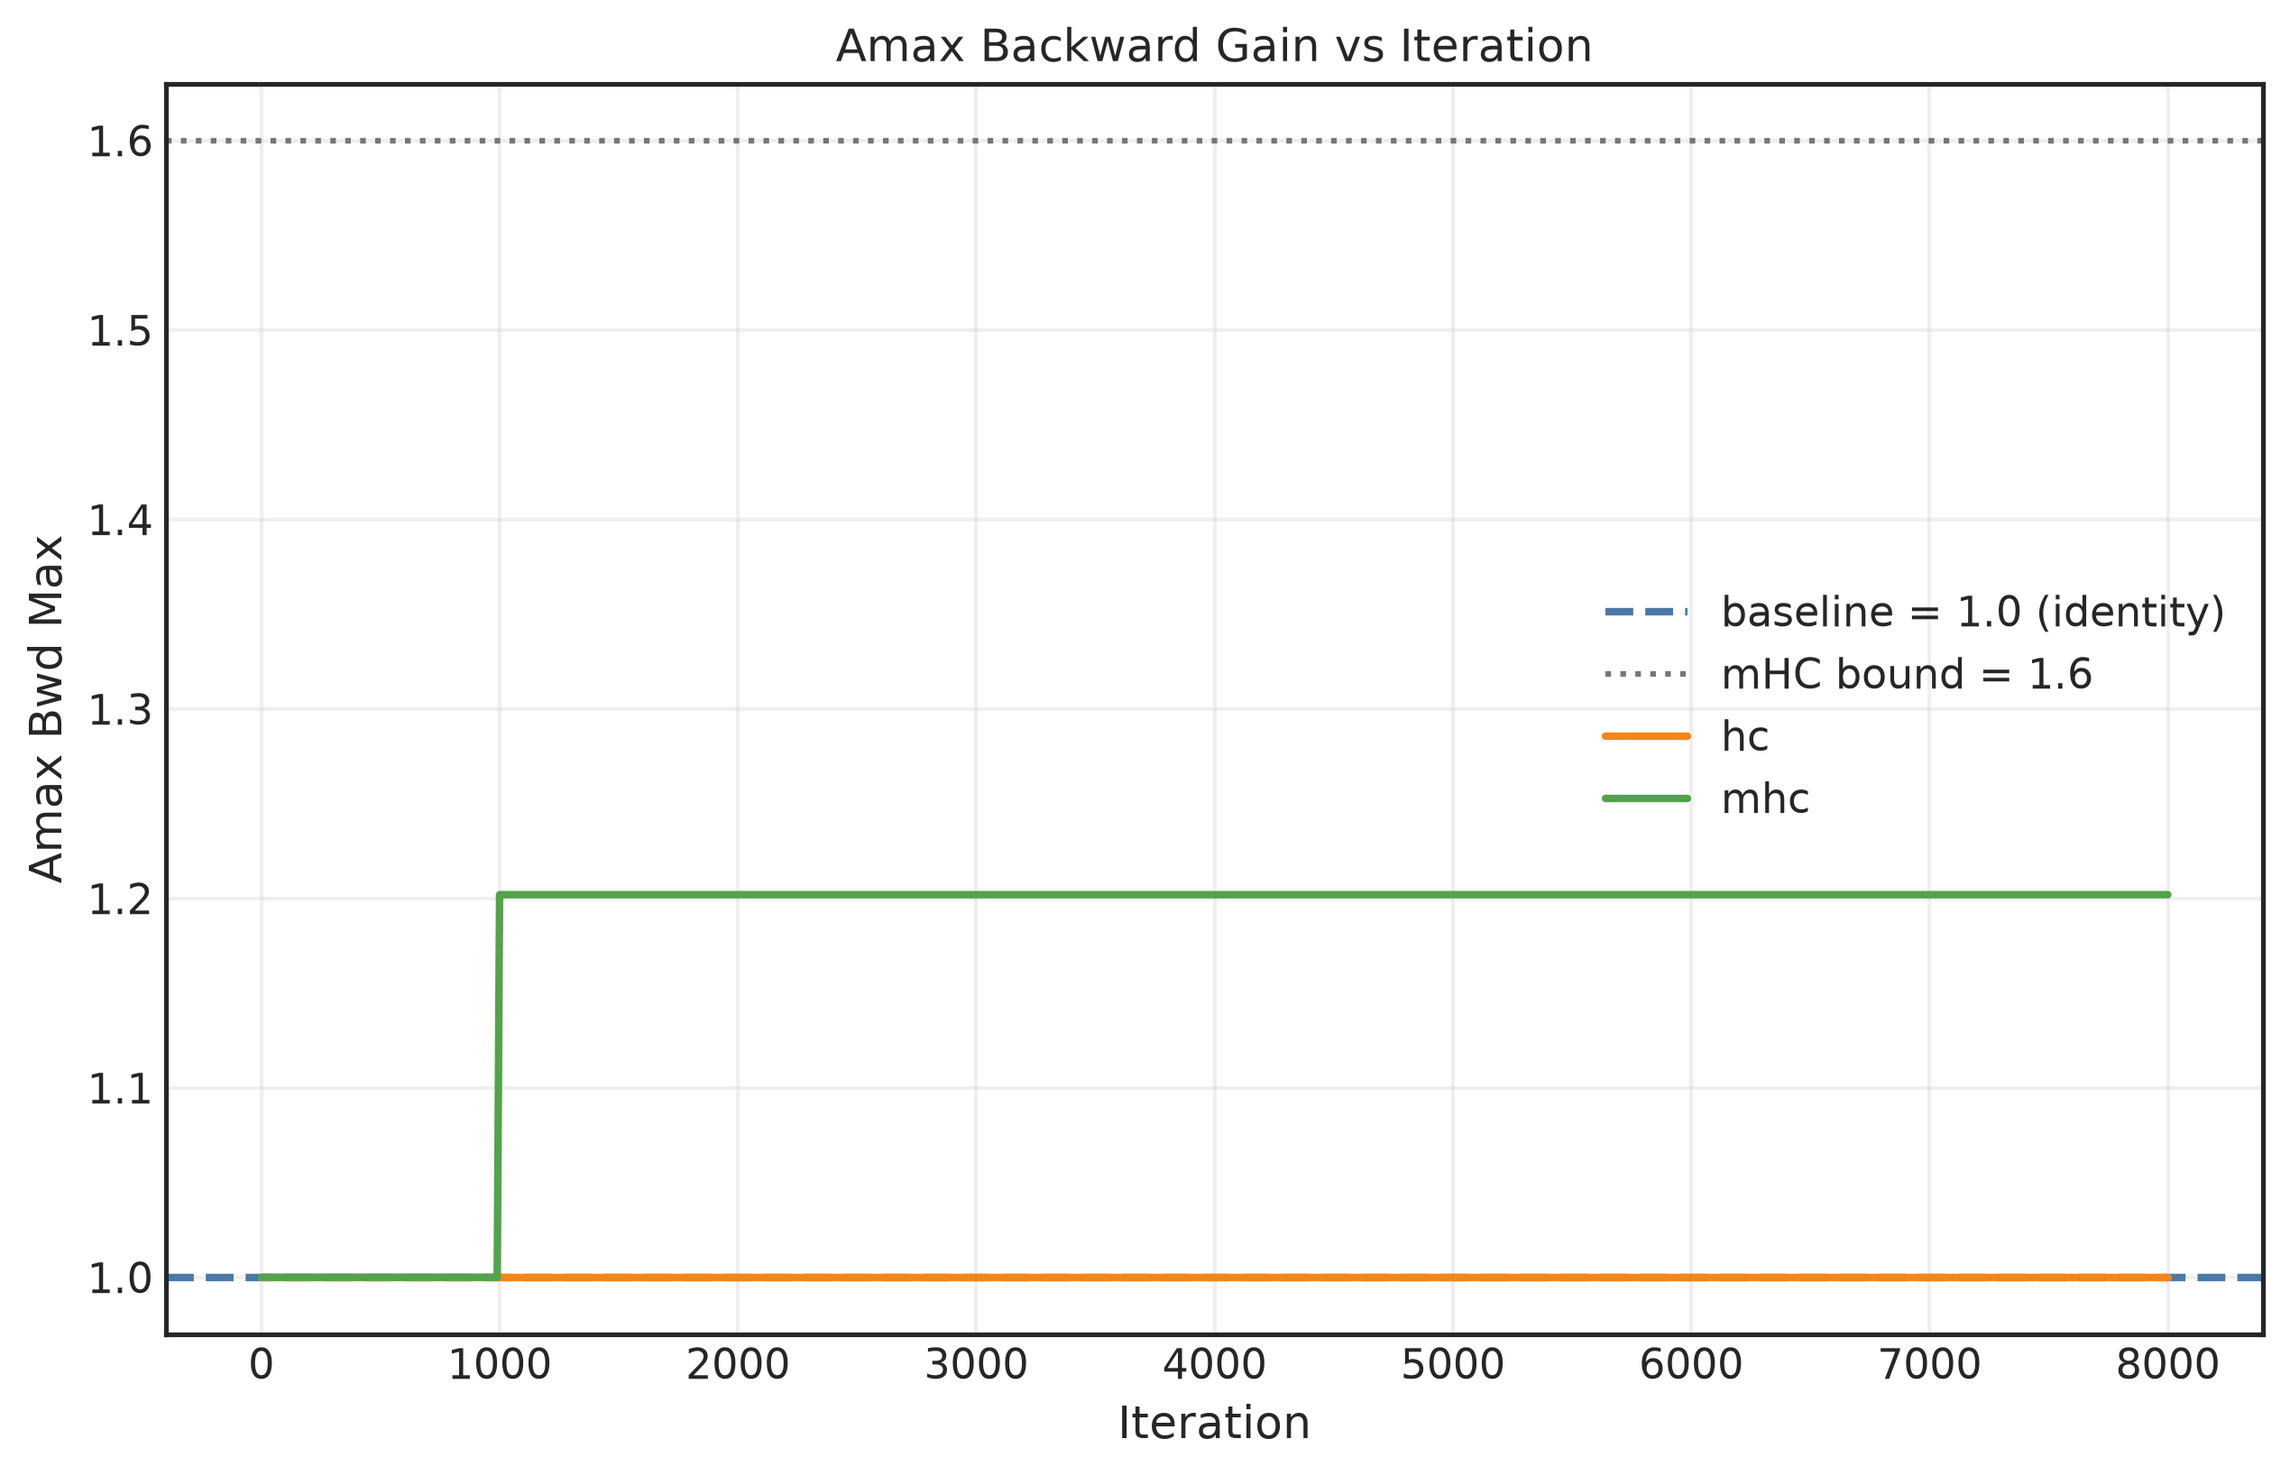
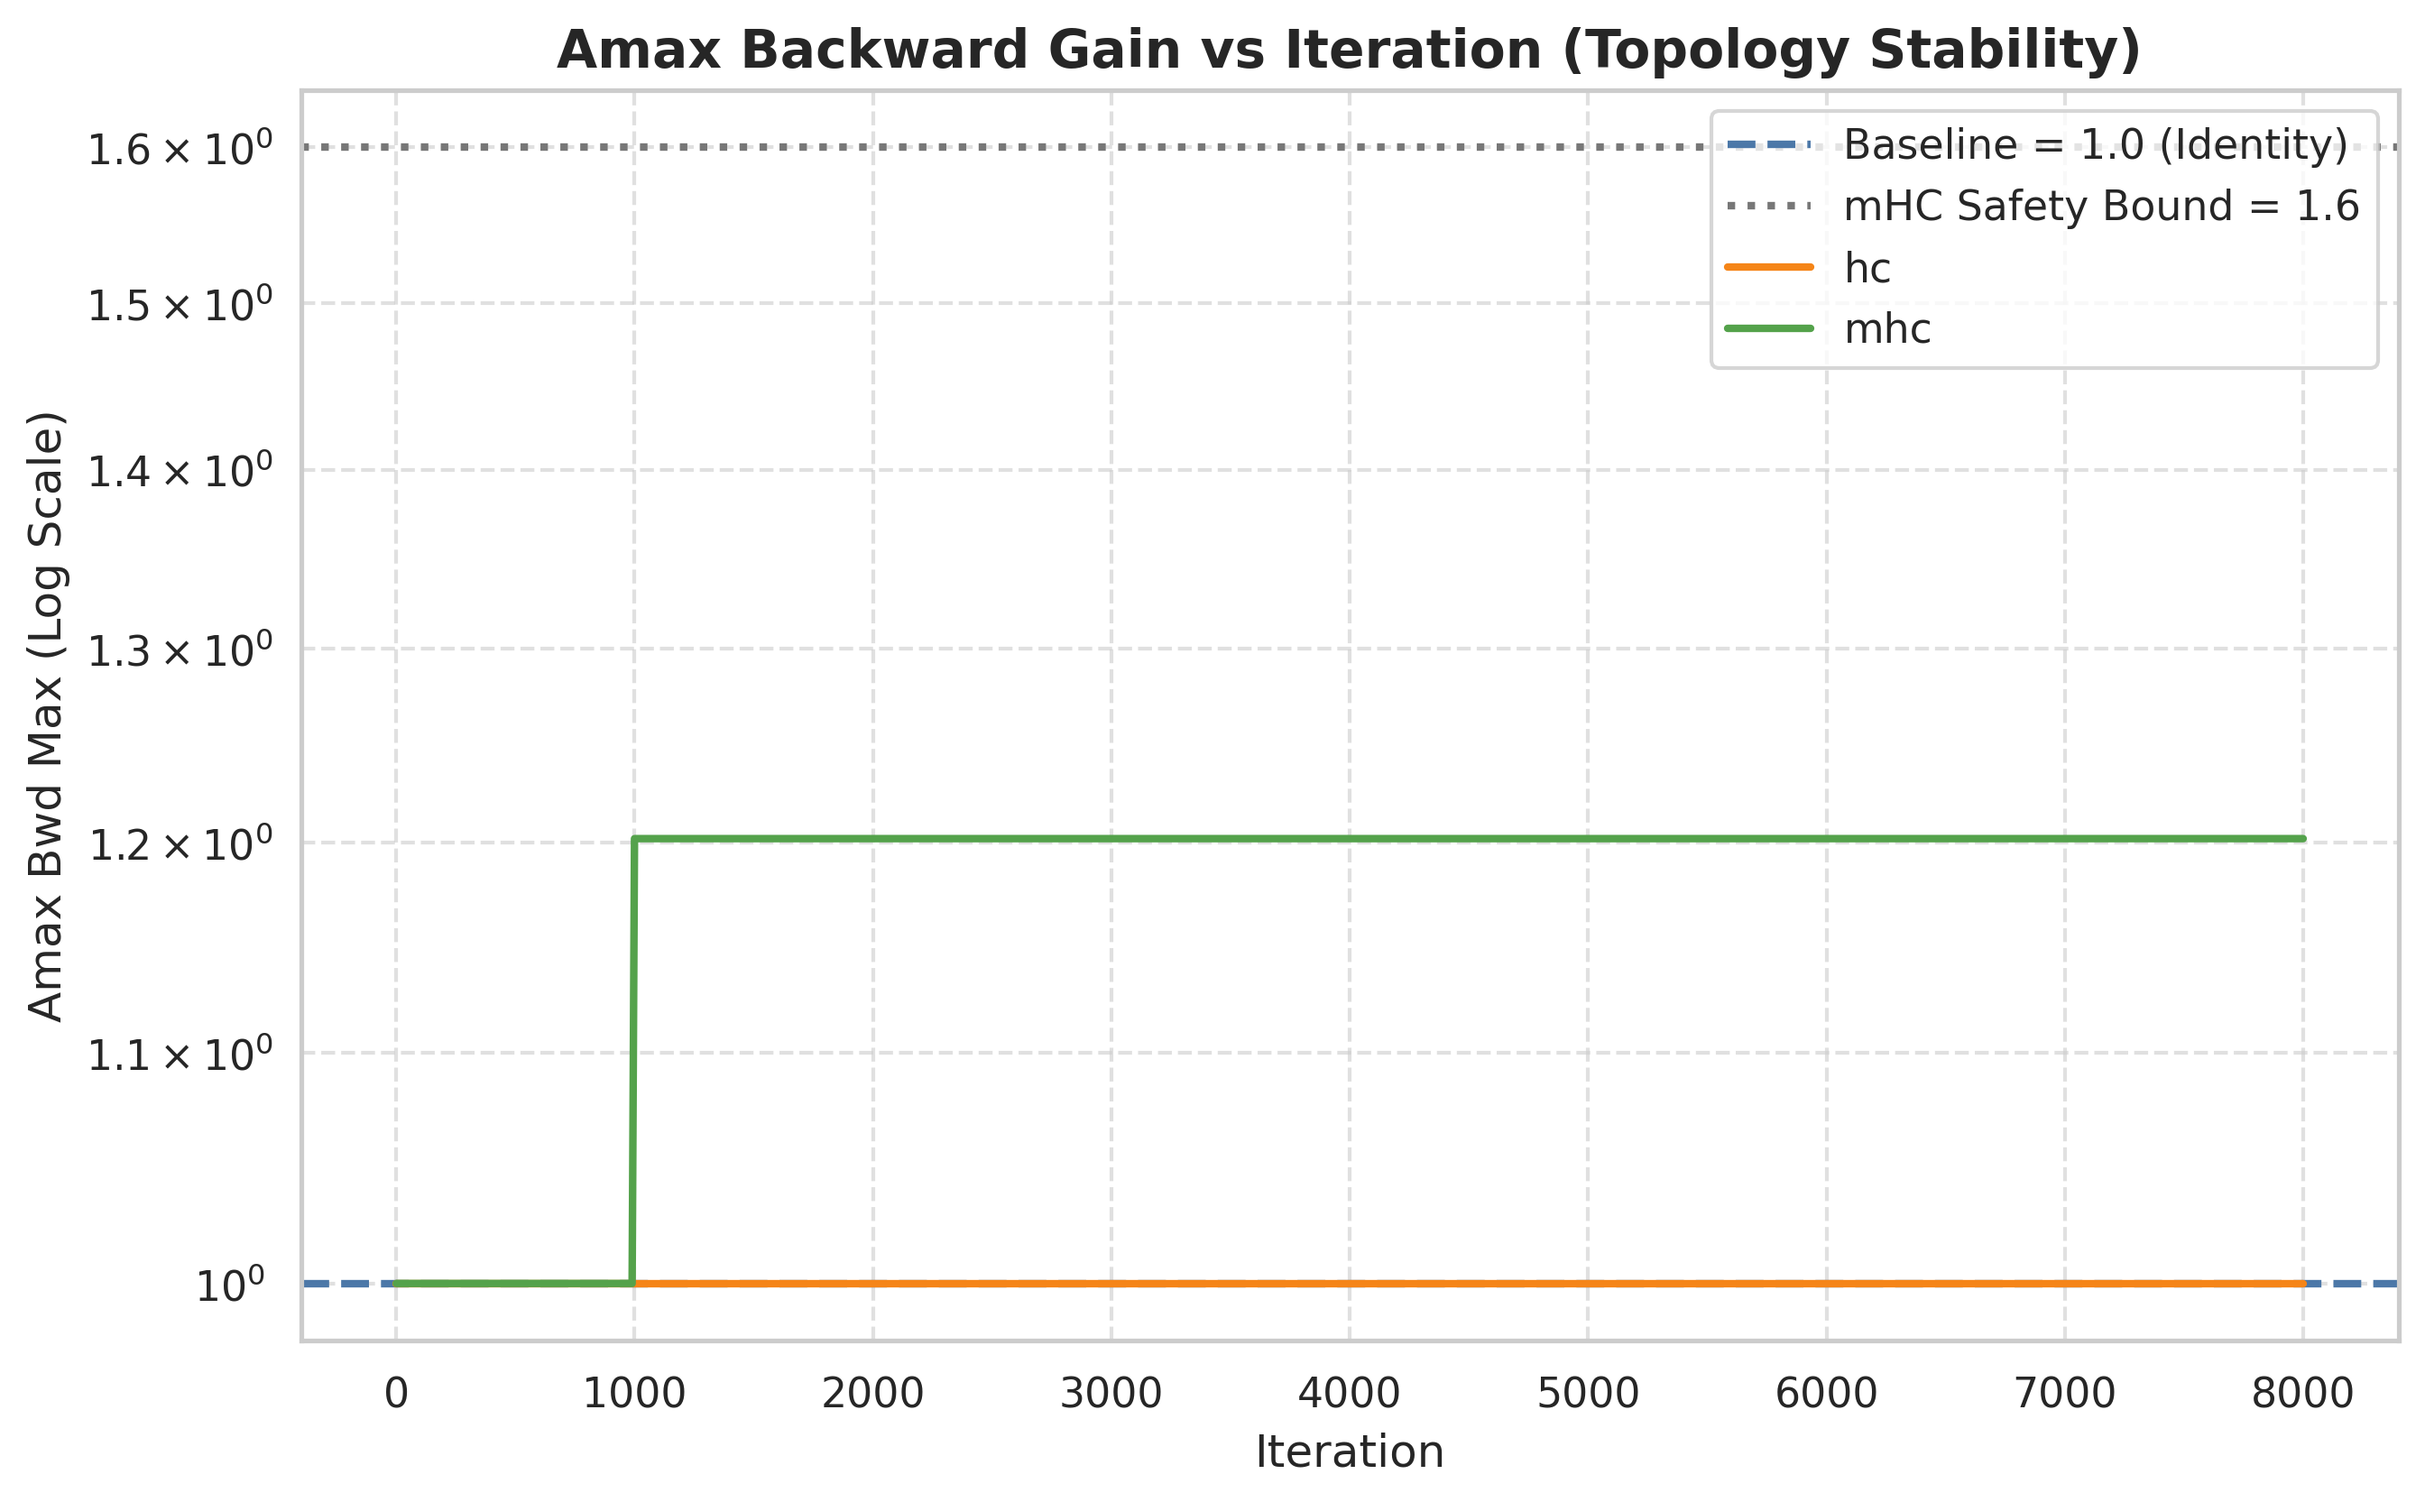
refactor: enhance visualization plots with log scaling, EMA smoothing, and improved styling for better clarity

diff --git a/examples/qwen2.5-0.5B/plot_qwen_comparison.py b/examples/qwen2.5-0.5B/plot_qwen_comparison.py
@@ -29,6 +29,7 @@ def _parse_runs(run_args: List[str]) -> Dict[str, Path]:
 
 
 def _ema(series: pd.Series, alpha: float) -> pd.Series:
+    """Calculate Exponential Moving Average for smoothing."""
     return series.ewm(alpha=alpha, adjust=False).mean()
 
 
@@ -56,12 +57,14 @@ def _plot_val_loss(runs: Dict[str, pd.DataFrame], output_dir: Path) -> Path:
             label=name,
             color=COLORS.get(name, None),
             linewidth=2,
+            marker='o', # Thêm marker để dễ nhìn các điểm eval
+            markersize=4
         )
-    ax.set_title("Validation Loss vs Iteration")
-    ax.set_xlabel("Iteration")
-    ax.set_ylabel("Validation Loss")
-    ax.grid(True, alpha=0.3)
-    ax.legend()
+    ax.set_title("Validation Loss vs Iteration", fontsize=14, fontweight='bold')
+    ax.set_xlabel("Iteration", fontsize=12)
+    ax.set_ylabel("Validation Loss", fontsize=12)
+    ax.grid(True, linestyle="--", alpha=0.6)
+    ax.legend(fontsize=11)
     path = output_dir / "val_loss_curve.png"
     _save_fig(fig, path)
     return path
@@ -72,19 +75,18 @@ def _plot_train_loss(runs: Dict[str, pd.DataFrame], output_dir: Path) -> Path:
     for name, df in runs.items():
         if "train_loss" not in df:
             continue
-        ema_series = _ema(df["train_loss"], alpha=0.95)
-        ax.plot(
-            df["iter"],
-            ema_series,
-            label=name,
-            color=COLORS.get(name, None),
-            linewidth=2,
-        )
-    ax.set_title("Training Loss vs Iteration (EMA)")
-    ax.set_xlabel("Iteration")
-    ax.set_ylabel("Training Loss")
-    ax.grid(True, alpha=0.3)
-    ax.legend()
+        # Đã SỬA: Dùng alpha=0.05 để làm mượt thực sự
+        ema_series = _ema(df["train_loss"], alpha=0.05) 
+        
+        # Plot đường mờ (raw) phía sau, đường đậm (smoothed) phía trước
+        ax.plot(df["iter"], df["train_loss"], color=COLORS.get(name, None), alpha=0.15)
+        ax.plot(df["iter"], ema_series, label=name, color=COLORS.get(name, None), linewidth=2)
+        
+    ax.set_title("Training Loss vs Iteration (Smoothed)", fontsize=14, fontweight='bold')
+    ax.set_xlabel("Iteration", fontsize=12)
+    ax.set_ylabel("Training Loss", fontsize=12)
+    ax.grid(True, linestyle="--", alpha=0.6)
+    ax.legend(fontsize=11)
     path = output_dir / "train_loss_curve.png"
     _save_fig(fig, path)
     return path
@@ -96,7 +98,7 @@ def _plot_train_loss_gap(runs: Dict[str, pd.DataFrame], output_dir: Path) -> Pat
     fig, ax = plt.subplots(figsize=(10, 6))
     baseline_df = runs["baseline"]
     for name, df in runs.items():
-        if "train_loss" not in df:
+        if name == "baseline" or "train_loss" not in df:
             continue
         merged = pd.merge(baseline_df[["iter", "train_loss"]], df[["iter", "train_loss"]], on="iter", suffixes=("_base", "_method"))
         base_smoothed = _ema(merged["train_loss_base"], alpha=0.05)
@@ -105,16 +107,17 @@ def _plot_train_loss_gap(runs: Dict[str, pd.DataFrame], output_dir: Path) -> Pat
         ax.plot(
             merged["iter"],
             gap,
-            label=name,
+            label=f"{name} vs baseline",
             color=COLORS.get(name, None),
             linewidth=2,
         )
-    ax.axhline(0.0, color="gray", linewidth=1.5)
-    ax.set_title("Absolute Training Loss Gap vs Iteration")
-    ax.set_xlabel("Iteration")
-    ax.set_ylabel("Loss Gap (Method - Baseline)")
-    ax.grid(True, alpha=0.3)
-    ax.legend()
+        
+    ax.axhline(0.0, color="red", linewidth=1.5, linestyle="--", label="Baseline Reference")
+    ax.set_title("Absolute Training Loss Gap (Method - Baseline)", fontsize=14, fontweight='bold')
+    ax.set_xlabel("Iteration", fontsize=12)
+    ax.set_ylabel("Loss Gap (Negative is better)", fontsize=12)
+    ax.grid(True, linestyle="--", alpha=0.6)
+    ax.legend(fontsize=11)
     path = output_dir / "train_loss_gap_curve.png"
     _save_fig(fig, path)
     return path
@@ -123,30 +126,28 @@ def _plot_train_loss_gap(runs: Dict[str, pd.DataFrame], output_dir: Path) -> Pat
 def _plot_grad_norm(runs: Dict[str, pd.DataFrame], output_dir: Path) -> Path:
     fig, ax = plt.subplots(figsize=(10, 6))
     for name, df in runs.items():
-        if "grad_norm" not in df:
+        # Đã SỬA: Check linh hoạt tên cột gradient
+        col_name = "grad_pre" if "grad_pre" in df else "grad_norm" if "grad_norm" in df else None
+        if not col_name:
             continue
-        ema_series = _ema(df["grad_norm"], alpha=0.1)
-        ax.plot(
-            df["iter"],
-            ema_series,
-            label=name,
-            color=COLORS.get(name, None),
-            linewidth=2,
-        )
-    ax.set_title("Gradient Norm vs Iteration")
-    ax.set_xlabel("Iteration")
-    ax.set_ylabel("Gradient Norm")
+            
+        ema_series = _ema(df[col_name], alpha=0.05)
+        ax.plot(df["iter"], df[col_name], color=COLORS.get(name, None), alpha=0.15)
+        ax.plot(df["iter"], ema_series, label=name, color=COLORS.get(name, None), linewidth=2)
+        
+    ax.set_title("Gradient Norm vs Iteration (Smoothed)", fontsize=14, fontweight='bold')
+    ax.set_xlabel("Iteration", fontsize=12)
+    ax.set_ylabel("Gradient L2 Norm", fontsize=12)
     ax.set_ylim(bottom=0)
-    ax.grid(True, alpha=0.3)
-    ax.legend()
+    ax.grid(True, linestyle="--", alpha=0.6)
+    ax.legend(fontsize=11)
     path = output_dir / "grad_norm_curve.png"
     _save_fig(fig, path)
     return path
 
 
 def _plot_best_val_bar(runs: Dict[str, pd.DataFrame], output_dir: Path) -> Path:
-    variants = []
-    values = []
+    variants, values = [], []
     for name, df in runs.items():
         subset = df.dropna(subset=["val_loss"])
         if subset.empty:
@@ -154,20 +155,23 @@ def _plot_best_val_bar(runs: Dict[str, pd.DataFrame], output_dir: Path) -> Path:
         variants.append(name)
         values.append(subset["val_loss"].min())
 
-    fig, ax = plt.subplots(figsize=(10, 6))
-    ax.bar(variants, values, color=[COLORS.get(v, "#999999") for v in variants])
-    ax.set_title("Best Validation Loss")
-    ax.set_xlabel("Variant")
-    ax.set_ylabel("Best Val Loss")
-    ax.grid(True, axis="y", alpha=0.3)
+    fig, ax = plt.subplots(figsize=(8, 6))
+    bars = ax.bar(variants, values, color=[COLORS.get(v, "#999999") for v in variants], width=0.5)
+    
+    # Đã SỬA: Thêm Text nổi trên đỉnh cột
+    ax.bar_label(bars, fmt='%.4f', padding=5, fontsize=12, fontweight='bold')
+    
+    ax.set_title("Best Validation Loss", fontsize=14, fontweight='bold')
+    ax.set_ylabel("Loss (Lower is better)", fontsize=12)
+    ax.set_ylim(0, max(values) * 1.15) # Tăng trần để không bị cắt chữ
+    ax.grid(True, axis="y", linestyle="--", alpha=0.4)
     path = output_dir / "best_val_loss_bar.png"
     _save_fig(fig, path)
     return path
 
 
 def _plot_final_ppl_bar(runs: Dict[str, pd.DataFrame], output_dir: Path) -> Path:
-    variants = []
-    values = []
+    variants, values = [], []
     for name, df in runs.items():
         subset = df.dropna(subset=["val_loss"])
         if subset.empty:
@@ -176,34 +180,26 @@ def _plot_final_ppl_bar(runs: Dict[str, pd.DataFrame], output_dir: Path) -> Path
         variants.append(name)
         values.append(math.exp(last_val) if last_val < 20 else float("inf"))
 
-    fig, ax = plt.subplots(figsize=(10, 6))
-    ax.bar(variants, values, color=[COLORS.get(v, "#999999") for v in variants])
-    ax.set_title("Final Validation Perplexity")
-    ax.set_xlabel("Variant")
-    ax.set_ylabel("Final Val PPL")
-    ax.grid(True, axis="y", alpha=0.3)
+    fig, ax = plt.subplots(figsize=(8, 6))
+    bars = ax.bar(variants, values, color=[COLORS.get(v, "#999999") for v in variants], width=0.5)
+    
+    # Đã SỬA: Thêm Text nổi trên đỉnh cột
+    ax.bar_label(bars, fmt='%.4f', padding=5, fontsize=12, fontweight='bold')
+    
+    ax.set_title("Final Validation Perplexity", fontsize=14, fontweight='bold')
+    ax.set_ylabel("Perplexity (Lower is better)", fontsize=12)
+    ax.set_ylim(0, max(values) * 1.15)
+    ax.grid(True, axis="y", linestyle="--", alpha=0.4)
     path = output_dir / "final_val_ppl_bar.png"
     _save_fig(fig, path)
     return path
 
 
-def _plot_amax_curve(
-    runs: Dict[str, pd.DataFrame],
-    output_dir: Path,
-    col: str,
-    filename: str,
-    title: str,
-) -> Path:
+def _plot_amax_curve(runs: Dict[str, pd.DataFrame], output_dir: Path, col: str, filename: str, title: str) -> Path:
     fig, ax = plt.subplots(figsize=(10, 6))
 
-    ax.axhline(
-        1.0,
-        color=COLORS.get("baseline", "#4C78A8"),
-        linestyle="--",
-        linewidth=2,
-        label="baseline = 1.0 (identity)",
-    )
-    ax.axhline(1.6, color="#777777", linestyle=":", linewidth=1.5, label="mHC bound = 1.6")
+    ax.axhline(1.0, color=COLORS.get("baseline", "#4C78A8"), linestyle="--", linewidth=2, label="Baseline = 1.0 (Identity)")
+    ax.axhline(1.6, color="#777777", linestyle=":", linewidth=2, label="mHC Safety Bound = 1.6")
 
     for name, df in runs.items():
         if name == "baseline":
@@ -219,11 +215,15 @@ def _plot_amax_curve(
             linewidth=2,
         )
 
-    ax.set_title(title)
-    ax.set_xlabel("Iteration")
-    ax.set_ylabel(col.replace("_", " ").title())
-    ax.grid(True, alpha=0.3)
-    ax.legend()
+    ax.set_title(title, fontsize=14, fontweight='bold')
+    ax.set_xlabel("Iteration", fontsize=12)
+    ax.set_ylabel(col.replace("_", " ").title() + " (Log Scale)", fontsize=12)
+    
+    # Đã SỬA: Đưa Amax về thang đo Logarit để thấy được vực thẳm của HC vs mHC
+    ax.set_yscale('log')
+    
+    ax.grid(True, which="both", linestyle="--", alpha=0.6)
+    ax.legend(fontsize=11)
 
     path = output_dir / filename
     _save_fig(fig, path)
@@ -236,8 +236,8 @@ def main() -> None:
     parser.add_argument("--output-dir", required=True)
     args = parser.parse_args()
 
-    sns.set_theme(style="white")
-    plt.style.use("seaborn-v0_8-white")
+    # Dùng whitegrid cho nó khoa học
+    sns.set_theme(style="whitegrid")
 
     output_dir = Path(args.output_dir)
     output_dir.mkdir(parents=True, exist_ok=True)
@@ -254,29 +254,21 @@ def main() -> None:
         outputs.append(gap_path)
         
     outputs.append(_plot_grad_norm(runs, output_dir))
-    
     outputs.append(_plot_best_val_bar(runs, output_dir))
     outputs.append(_plot_final_ppl_bar(runs, output_dir))
+    
     outputs.append(
         _plot_amax_curve(
-            runs,
-            output_dir,
-            col="amax_fwd_max",
-            filename="amax_fwd_curve.png",
-            title="Amax Forward Gain vs Iteration",
+            runs, output_dir, col="amax_fwd_max", filename="amax_fwd_curve.png", title="Amax Forward Gain vs Iteration (Topology Stability)"
         )
     )
     outputs.append(
         _plot_amax_curve(
-            runs,
-            output_dir,
-            col="amax_bwd_max",
-            filename="amax_bwd_curve.png",
-            title="Amax Backward Gain vs Iteration",
+            runs, output_dir, col="amax_bwd_max", filename="amax_bwd_curve.png", title="Amax Backward Gain vs Iteration (Topology Stability)"
         )
     )
 
-    print("✅ Generated figures:")
+    print("✅ Generated figures successfully:")
     for path in outputs:
         print(f"✅ {path}")
 
